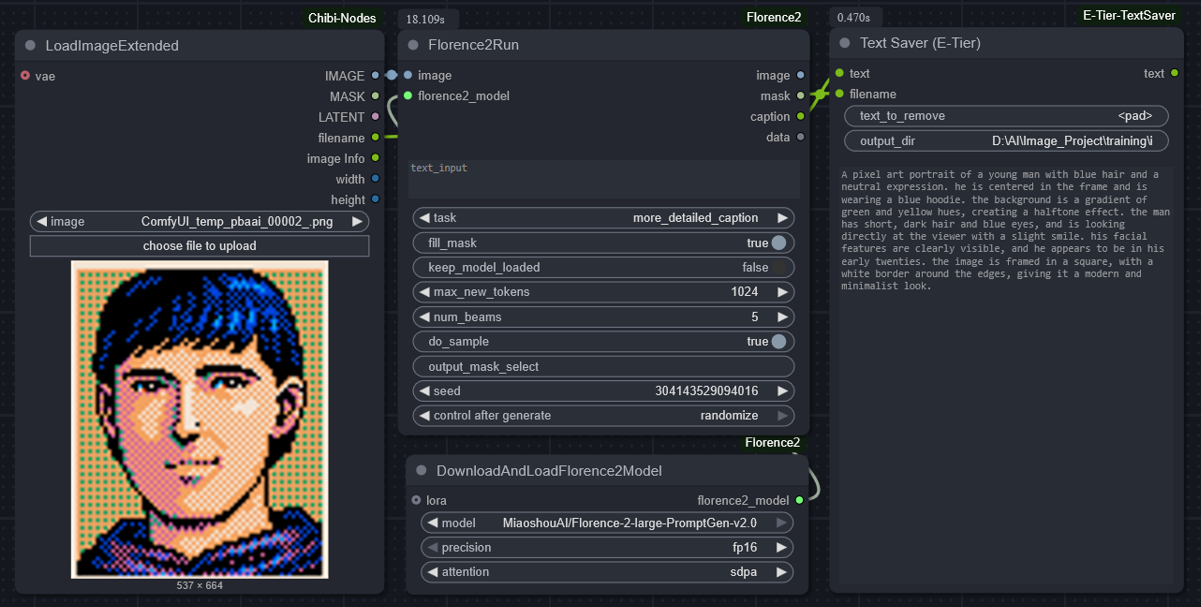
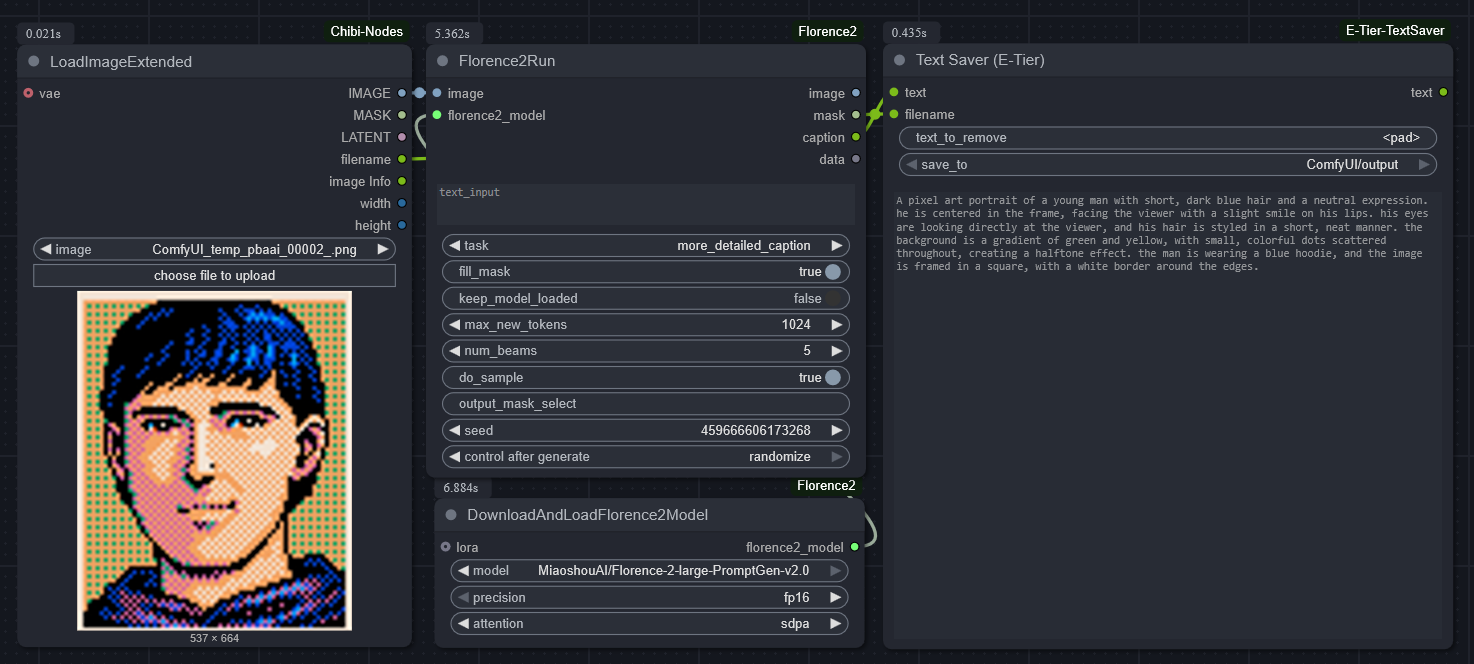
Update README and refine logic in E_TierTextSaver

Changed region(s): [[0.0, 0.0, 0.9858, 0.9786], [0.955, 0.1186, 0.9858, 0.1483]]

diff --git a/py/e_tier_text_saver.py b/py/e_tier_text_saver.py
@@ -1,5 +1,6 @@
 import os
 import html
+import string
 
 class E_TierTextSaver:
     @classmethod
@@ -9,11 +10,11 @@ class E_TierTextSaver:
                 "text": ("STRING", {"forceInput": True}),
                 "filename": ("STRING", {"forceInput": True}),
                 "text_to_remove": ("STRING", {"default": "<pad>"}),
-                "output_dir": ("STRING", {"default": "./ComfyUI/output", "forceInput": False}),
+                "save_to": (["ComfyUI/output"], {"default": "ComfyUI/output"})
             },
             "hidden": {
                 "unique_id": "UNIQUE_ID",
-                "extra_pnginfo": "EXTRA_PNGINFO",
+                "extra_pnginfo": "EXTRA_PNGINFO"
             }
         }
 
@@ -24,36 +25,35 @@ class E_TierTextSaver:
     OUTPUT_NODE = True
 
     def __init__(self):
-        self.last_output = None
         self.last_error_message = None
 
-    def validate_directory_path(self, path):
-        abs_path = os.path.abspath(path)
-        forbidden_paths = [
-            "C:\\Windows", "C:\\Program Files", "C:\\Program Files (x86)", "C:\\Users\\Default"
-        ]
-        for fp in forbidden_paths:
-            if abs_path.lower().startswith(fp.lower()):
-                raise ValueError(f"Access to system directory is forbidden: {abs_path}")
-        if ".." in path or path.strip().startswith(("/", "\\")):
-            raise ValueError(f"Suspicious relative path: {path}")
-        dangerous_chars = ['|', ';', '&', '$', '<', '>', '"']
-        if any(c in path for c in dangerous_chars):
-            raise ValueError(f"Illegal character detected in path: {path}")
-        if os.path.exists(abs_path):
-            if not os.path.isdir(abs_path):
-                raise ValueError(f"Path exists but is not a directory: {abs_path}")
-        else:
-            if os.path.splitext(abs_path)[1]:
-                raise ValueError(f"File path detected but does not exist: {abs_path}")
-            else:
-                raise ValueError(f"Directory does not exist: {abs_path}")
-        return abs_path
+    def validate_directory_path(self, label):
+        whitelist_path = "./ComfyUI/output"
+        if os.path.islink(whitelist_path):
+            raise ValueError("Whitelist path must not be a symbolic link.")
+        whitelist = {
+            "ComfyUI/output": os.path.realpath(whitelist_path)
+        }
+        if label not in whitelist:
+            raise ValueError(f"Unknown output directory label: {label}")
+        resolved_path = os.path.realpath(whitelist[label])
+        if not os.path.isdir(resolved_path):
+            raise ValueError(f"Path does not exist or is not a directory: {resolved_path}")
+        if not resolved_path.startswith(whitelist[label]):
+            raise ValueError(f"Symbolic link attack detected: {resolved_path}")
+        return resolved_path
 
     def sanitize_input(self, text):
         original = text
-        text = html.escape(text)
-        blocked_patterns = ["<script>", "</script>", "eval(", "os.system(", "import", "exec("]
+        blocked_patterns = [
+            "<script>", "</script>", "eval(", "exec(", "compile(", "os.system(",
+            "os.popen(", "subprocess.call(", "subprocess.Popen(", "__import__",
+            "__builtins__", "open(", "input(", "getattr(", "setattr(",
+            "globals(", "locals(", "sys.modules", "shlex.split(",
+            "marshal.loads(", "pickle.loads(", "base64.b64decode(",
+            "ctypes.", "ffi.", "socket.", "urllib.request.urlopen(",
+            "requests.get("
+        ]
         for pattern in blocked_patterns:
             if pattern in text:
                 text = text.replace(pattern, "")
@@ -64,12 +64,15 @@ class E_TierTextSaver:
     def sanitize_filename(self, name):
         original = name
         forbidden_chars = ['<', '>', ':', '"', '/', '\\', '|', '?', '*']
-        sanitized = "".join(c if c not in forbidden_chars else "_" for c in name).strip()
+        sanitized = "".join(c if c in string.printable and c not in forbidden_chars else "_" for c in name).strip()
+        if sanitized == "":
+            print("[E_TierTextSaver] Filename was empty. Using default name: 'untitled'")
+            return "untitled"
         if sanitized != original:
             print("[E_TierTextSaver] Filename was sanitized for safety.")
         return sanitized
 
-    def save_cleaned_text(self, text, filename, text_to_remove, output_dir, unique_id=None, extra_pnginfo=None):
+    def save_cleaned_text(self, text, filename, text_to_remove, save_to, unique_id=None, extra_pnginfo=None):
         try:
             if isinstance(text, list):
                 text = "".join(text)
@@ -77,27 +80,25 @@ class E_TierTextSaver:
                 filename = filename[0]
             if isinstance(text_to_remove, list):
                 text_to_remove = text_to_remove[0]
-            if isinstance(output_dir, list):
-                output_dir = output_dir[0]
+            if isinstance(save_to, list):
+                save_to = save_to[0]
 
             cleaned_text = text.replace(text_to_remove, "")
             cleaned_text = self.sanitize_input(cleaned_text)
+            cleaned_text.encode("utf-8")
 
             base_name = os.path.splitext(os.path.basename(filename))[0]
             safe_base_name = self.sanitize_filename(base_name)
-            output_dir = self.validate_directory_path(output_dir)
+            output_dir = self.validate_directory_path(save_to)
             output_path = os.path.join(output_dir, safe_base_name + ".txt")
 
             if os.path.exists(output_path):
-                print(f"[E_TierTextSaver] === WARNING === Overwriting existing file at {output_path}")
+                print("[E_TierTextSaver] Overwriting existing file")
 
             with open(output_path, "w", encoding="utf-8") as f:
                 f.write(cleaned_text)
 
-            if self.last_output != cleaned_text:
-                self.last_output = cleaned_text
-                print(f"[E_TierTextSaver] Security Check Passed: Text Sanitized Successfully.")
-                print(f"[E_TierTextSaver] Text File Created Successfully at {output_path}")
+            print(f"[E_TierTextSaver] Text File Created Successfully at:\n{output_path}")
 
             return {
                 "ui": {"text": [cleaned_text], "output_dir": output_path},
@@ -114,11 +115,10 @@ class E_TierTextSaver:
                 "result": (self.last_error_message,)
             }
 
-
 NODE_CLASS_MAPPINGS = {
-    "E_TierTextSaver": E_TierTextSaver,
+    "E_TierTextSaver": E_TierTextSaver
 }
 
 NODE_DISPLAY_NAME_MAPPINGS = {
-    "E_TierTextSaver": "Text Saver (E-Tier)",
+    "E_TierTextSaver": "Text Saver (E-Tier)"
 }

diff --git a/README.md b/README.md
@@ -1,24 +1,26 @@
 📦 **ComfyUI-E-Tier-TextSaver**
 
-A secure and flexible text-saving node for ComfyUI — optimized for LoRA dataset workflows.  
-Supports safe `.txt` export after captioning nodes such as Florence2.
+Tired of annoying tokens like `<pad>` in your captioned prompts?  
+This is for you.
+
+A secure and flexible text-saving node for ComfyUI.  
+After captioning with Florence2 or similar, it automatically strips unwanted tokens and saves a clean `.txt` file.
 
 ---
 
 ✨ **Key Features**
 
-- ✅ Save caption text to custom paths  
-- 🔐 Strict security validation to prevent unsafe writes  
-- 🧩 Works seamlessly with Florence/BLIP caption nodes  
-- 📂 Supports LoRA dataset directory workflows  
+- ✅ Removes unwanted tokens like `<pad>` from caption text  
+- 🔐 Strict path validation and filename sanitization  
+- 🧩 Works smoothly with Florence/BLIP captioning nodes  
+- 📂 Supports LoRA-style image-text dataset workflows  
 
 ---
 
 🧑💻 **Use Case Example**
 
-In LoRA training workflows, users often need to save `.txt` captions beside their training images.
-
-Typical flow:
+When training LoRA models, it's common to need `.txt` caption files that match image filenames.  
+This node makes that easy by fitting naturally into a workflow like this:
 
 ```
 [Image Loader] ➡ [Captioning Node] ➡ [Text Saver (E-Tier)]
@@ -28,36 +30,37 @@ Typical flow:
 
 ---
 
-🔐 **Security Measures**
+🔐 **Security Design**
 
-To ensure safe file operations, all output paths are strictly validated:
+All save paths go through strict validation checks:
 
-| ✅ Allowed                  | ❌ Blocked                                      |
-|----------------------------|-------------------------------------------------|
-| Existing directories only  | Nonexistent paths (no auto-creation)            |
-| Absolute paths             | Relative traversal (e.g., `../`)                |
-| Safe characters            | Shell/metacharacters (e.g., `|`, `;`, `$`, etc.)|
-| Normal text input          | Malicious code (e.g., `eval`, `<script>`)       |
+| ✅ Allowed                     | ❌ Blocked                                              |
+|-------------------------------|----------------------------------------------------------|
+| Existing directories only      | Non-existent paths (no auto-creation)                  |
+| Absolute paths                 | Relative traversal (e.g., `../`)                        |
+| Safe characters                | Shell/metacharacters (e.g., `|`, `;`, `$`, etc.)        |
+| Clean text input               | Suspicious patterns (e.g., `eval`, `<script>`, etc.)    |
 
-📌 The final save path is printed clearly in the console for transparency.
+📌 The final save path is clearly printed to the console for full transparency.
 
 ---
 
 ⚙ **Node Parameters**
 
-| Parameter   | Description                                     |
-|-------------|-------------------------------------------------|
-| `text`      | The text to be saved                            |
-| `filename`  | Required file name for the saved `.txt` file    |
-| `output_dir`| Must be an existing, validated output directory |
+| Parameter   | Description                                                  |
+|-------------|--------------------------------------------------------------|
+| `text`      | The text content to be saved (required)                      |
+| `filename`  | Filename for the resulting `.txt` file (required)            |
+| `save_to`   | Output directory (must be inside `ComfyUI/output`)           |
 
 ---
 
-❗ **Notes**
+❗ **Other Notes**
 
-- If validation fails, a clear error will be shown.  
-- The node does not create directories — please prepare your dataset structure in advance.  
-- Designed with security in mind: safe by default, flexible by configuration.  
+- Any validation errors will be clearly displayed in the console or UI.  
+- If no filename is given, it defaults to `"untitled.txt"`.  
+- This node will not create directories — make sure your structure exists.  
+- Secure by default, but configurable for advanced users.
 
 ---
 
@@ -67,7 +70,7 @@ To ensure safe file operations, all output paths are strictly validated:
 git clone https://github.com/e-tier-newbie/ComfyUI-E-Tier-TextSaver
 ```
 
-Place the folder under `ComfyUI/custom_nodes/`, then restart ComfyUI.
+Place the folder under `ComfyUI/custom_nodes/` and restart ComfyUI.
 
 ---
 
